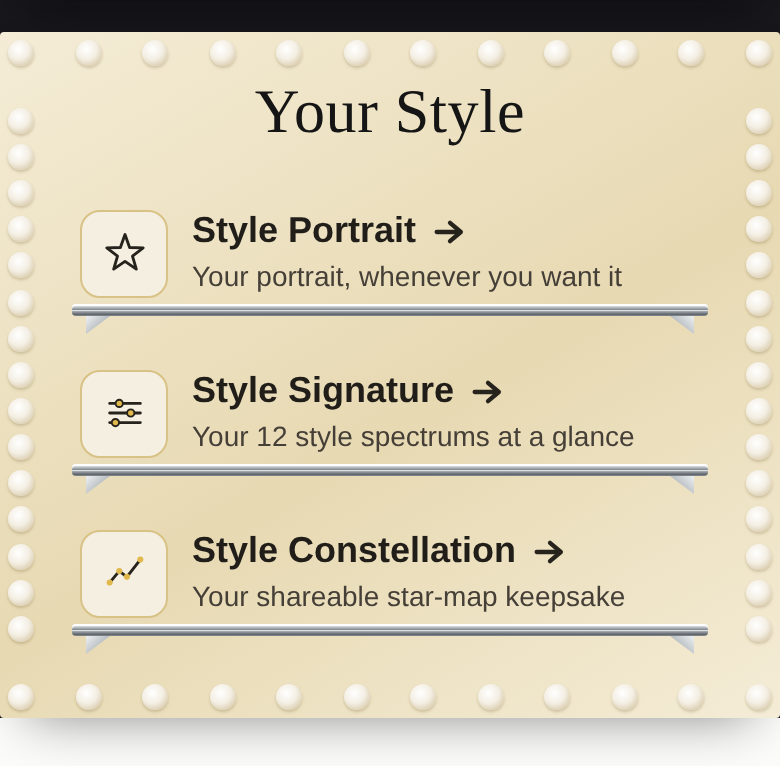
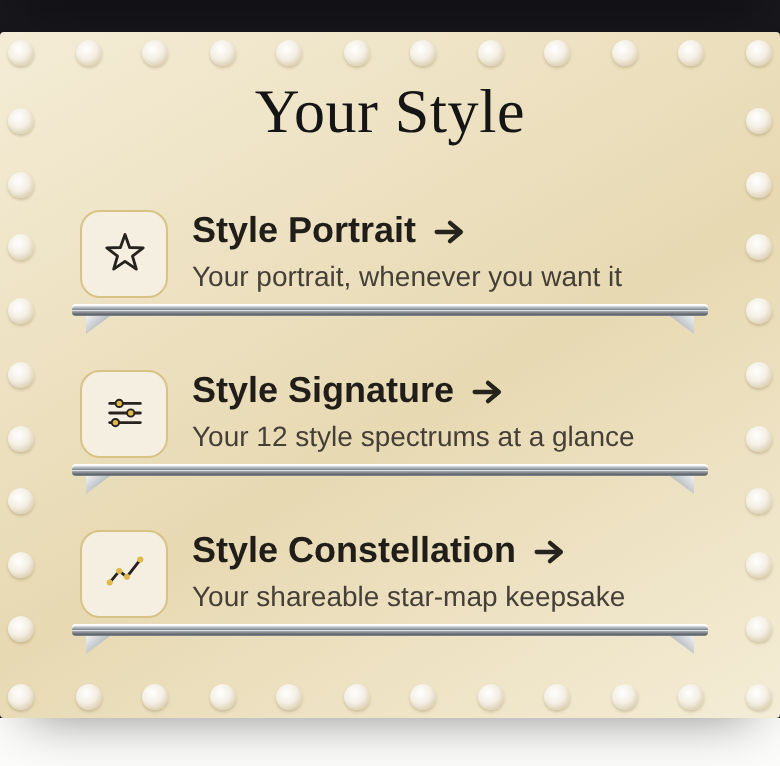
Equal pearls all around the Your Style frame (her ask)
The stud counts were hardcoded for the old tall tile panel and stretched
by space-between, so the side pitch never matched the top row once the
panel got shorter. _syncStuds() now computes each side's count from the
panel's real size (measured: top 33.5px pitch, sides 31.8px — within
rounding), re-runs on resize, and keeps the frame even whatever the
panel holds in the future.

Claude-Session: https://claude.ai/code/session_01HhNakpoanv4PdRUAhHmdj4

diff --git a/index.html b/index.html
@@ -4022,12 +4022,38 @@ function _photoBoards(on){
 }
 // Decide the save area on the outfit screen. A profile save only makes sense once
 // she's taken the quiz; a quiz-skipper sees the "take the quiz" nudge instead.
+// ▶ EQUAL PEARLS (2026-08-09, her ask: "make the pearls equal all around the
+// frame"). The stud counts were hardcoded for the old tall tile panel, and
+// space-between stretched them to whatever the panel measured — so the side
+// pitch never matched the top row's. Now the counts are COMPUTED from the
+// panel's real size so the center-to-center pitch is as equal as rounding
+// allows on all four sides, whatever the panel holds in the future.
+function _syncStuds(){
+  var hub=document.getElementById('photoPortraitHub');if(!hub)return;
+  var studs=hub.querySelector('.phub2-studs');if(!studs)return;
+  var W=hub.clientWidth,H=hub.clientHeight;if(!W||!H)return;
+  var PEARL=13,TARGET=33; // pearl size + the pitch the old top row was designed around
+  function fill(el,len){
+    if(!el)return;
+    var n=Math.max(2,Math.round((len-PEARL)/TARGET)+1);
+    if(el.childElementCount===n)return;
+    var h='';for(var i=0;i<n;i++)h+='<i></i>';
+    el.innerHTML=h;
+  }
+  fill(studs.querySelector('.ps.t'),W-8);       // 4px inset each side
+  fill(studs.querySelector('.ps.b'),W-8);
+  fill(studs.querySelector('.ps.l'),H-76);      // 38px clearance top + bottom
+  fill(studs.querySelector('.ps.r'),H-76);
+}
+// Rotation / window resizing changes the panel's size; hidden panels no-op.
+window.addEventListener('resize',function(){try{_syncStuds()}catch(e){}});
 // Pass false (partial/error) to hide the whole area — nothing to save.
 function _photoSaveArea(on){
   // "Retake the Quiz" only makes sense if she's actually taken it.
   var rt=document.querySelector('#s-photo-res .retake-wrap');if(rt)rt.style.display=quizTaken?'':'none';
   // "See my Style Portrait" only exists for quiz-takers (needs a saved portrait).
   var pp=document.getElementById('photoPortraitHub');if(pp)pp.style.display=quizTaken?'':'none';
+  if(quizTaken)requestAnimationFrame(_syncStuds); // pearls re-count once the panel has its real size
   var ptt=document.getElementById('portraitTitle');if(ptt){var _pfn=(userName&&userName!=='You')?String(userName).trim().split(/\s+/)[0]:'';ptt.textContent=_pfn?_pfn+'’s Style':'Your Style';}
   // Fill the keepsake buttons with real mini renderings of her constellation + signature.
   if(quizTaken){try{_renderCardThumb();}catch(e){}}

diff --git a/scratchpad/pgridshot.js b/scratchpad/pgridshot.js
@@ -53,7 +53,8 @@ await page.evaluate(() => {
   document.querySelectorAll('.hm-entrance,.rv-doors,.rv-overlay').forEach(e => e.remove());
   const hub = document.getElementById('photoPortraitHub');
   hub.style.display = '';
-  try { _renderCardThumb(); _renderSigThumb(); } catch (e) {}
+  try { _renderCardThumb(); } catch (e) {}
+  requestAnimationFrame(_syncStuds);
 });
 await page.waitForTimeout(900);
 
@@ -71,7 +72,16 @@ async function shot(name) {
   console.log('saved ' + name);
 }
 
-// as built — the page IS option B now
+// as built — the page IS option B now, with computed equal pearls
+const pitch = await page.evaluate(() => {
+  const c = sel => [...document.querySelectorAll('#photoPortraitHub .phub2-studs ' + sel + ' i')]
+    .map(e => { const r = e.getBoundingClientRect(); return { x: r.left + r.width / 2, y: r.top + r.height / 2 }; });
+  const gaps = (pts, axis) => pts.slice(1).map((p, i) => Math.abs(p[axis] - pts[i][axis]));
+  const avg = a => a.reduce((s, v) => s + v, 0) / a.length;
+  const t = c('.ps.t'), l = c('.ps.l');
+  return { top: { n: t.length, pitch: +avg(gaps(t, 'x')).toFixed(1) }, left: { n: l.length, pitch: +avg(gaps(l, 'y')).toFixed(1) } };
+});
+console.log('pearl pitch — top:', JSON.stringify(pitch.top), 'left:', JSON.stringify(pitch.left));
 await shot('pgrid-built.png');
 if (errs.length) console.log('JS ERRORS: ' + errs.join(' | '));
 await browser.close(); server.close();
